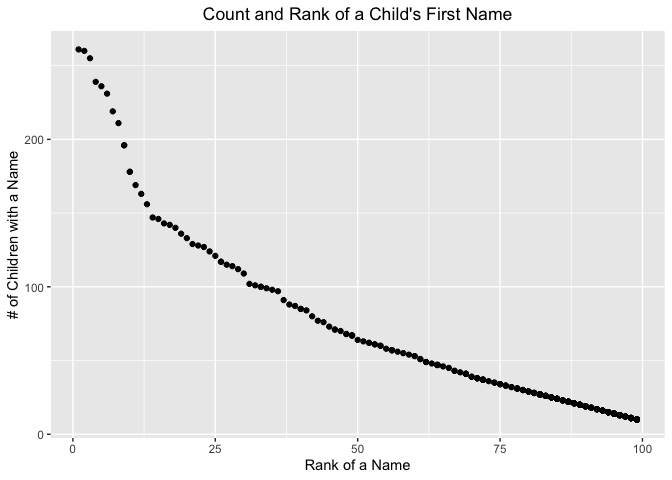
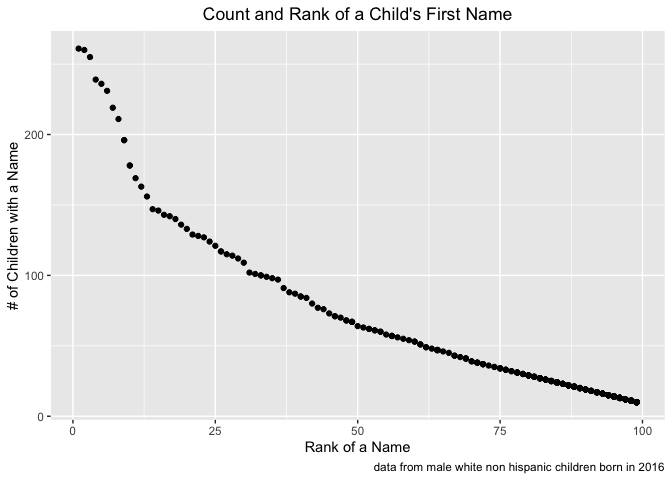
add caption to ggplot

diff --git a/p8105_hw2_pw2551.md b/p8105_hw2_pw2551.md
@@ -423,7 +423,8 @@ ggplot(male_white_16, aes(x = rank, y = count)) +
   geom_point() + 
   ggtitle("Count and Rank of a Child's First Name") +
   theme(plot.title = element_text(hjust = 0.5)) +
-  labs(y = "# of Children with a Name", x = "Rank of a Name")
+  labs(y = "# of Children with a Name", x = "Rank of a Name", 
+       caption = "data from male white non hispanic children born in 2016")
 ```
 
 ![](p8105_hw2_pw2551_files/figure-gfm/unnamed-chunk-21-1.png)<!-- -->
